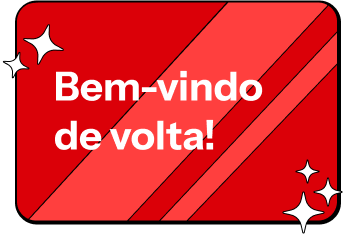
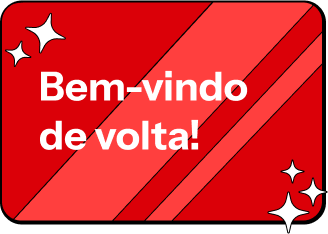
Overcompensate

diff --git a/css/login.css b/css/login.css
@@ -1,184 +1,192 @@
-
 body {
-    background-color: #f8f0e3;
-    font-family: 'Instrument Sans', sans-serif;
-    margin: 0;
-    padding: 0;
+  background-color: #f8f0e3;
+  font-family: "Instrument Sans", sans-serif;
+  margin: 0 auto;
+  padding: 0;
+  width: 85%;
+  
 }
 
+.desktop {
+  display: none;
+}
+
+.mobile {
+  display: block;
+  max-width:95%;
+}
 .cabeçalho header {
-    display: flex;
-    justify-content: space-between;
-    align-items: center;
-    padding: 10px 18px;   
-    border-bottom: 1px solid #f8f0e3;
+  display: flex;
+  justify-content: space-between;
+  align-items: center;
+  max-width: 320px;
+  margin:60px auto 0 auto;
 }
 
-.cabeçalho img{
-    width: 25px;
+.cabeçalho img {
+  width: 25px;
+}
+
+.container {
+  display: flex;
+  flex-direction: column;
+
 }
 
 .bem-vindo {
-    display: flex;
-    justify-content: center;
-    align-items: center;
-    padding: 40px 0;
+  display: flex;
+  justify-content: center;
+  align-items: center;
+  padding: 40px 0 20px 0;
 }
 
 .login {
-    display: flex;
-    flex-direction: column;
-    align-items: center;
+  display: flex;
+  flex-direction: column;
+  align-items: center;
+  width: 85%;
+  margin: 0 auto;
+  
 }
 
 .login h1 {
-    margin: 10px 0;
-    margin-left: -220px;
-    margin-top: -25px;
+  width: 100%;
+  max-width: 320px;
+  margin: 0 auto 10px auto;
+  text-align: left;
+  font-size: 1.8rem;
 }
 
 #formulario {
-    display: flex;
-    flex-direction: column;
-    gap: 10px;
-    width: 280px;
-    margin-top: 10px;
-    margin-left: -20px;
+  display: flex;
+  flex-direction: column;
+  gap: 6px;
+  width: 100%;
+  margin-top: 10px;
 }
 
 #formulario input {
-    padding: 12px;
-    font-size: 16px;
-    border: 1px solid #ccc;
-    border-radius: 8px;
+  padding: 12px;
+  font-size: 16px;
+  border: 1px solid #ccc;
+  border-radius: 8px;
 }
 
 #formulario button {
-    padding: 12px;
-    border: none;
-    border-radius: 10px;
-    font-size: 16px;
-    font-weight: bold;
-    cursor: pointer;
-    box-shadow: 2px 3px 0px black;
-    transition: transform 0.2s ease, box-shadow 0.2s ease;
-    margin-top: 10px;
+  padding: 12px;
+  border: none;
+  border-radius: 10px;
+  font-size: 16px;
+  font-weight: bold;
+  cursor: pointer;
+  box-shadow: var(--box-shadow);
+  margin-top: 10px;
 }
 
 #formulario .entrar {
-    background-color: #FFC257;
-    border: 1px solid black;
+  background-color: #ffc257;
+  border: var(--border);
+}
+
+#formulario .entrar:hover {
+  color: white;
+  background-color: black;
 }
 
 .perguntas {
+  display: flex;
+  flex-direction: column;
+  align-items: center;
+  margin-top: 15px;
+}
+
+.criar a {
+  color: black;
+  font-weight: bold;
+  margin-left: 5px;
+  text-decoration: none;
+}
+
+.esqueceu a {
+  color: black;
+  font-weight: bold;
+  margin-left: -2px;
+  text-decoration: none;
+}
+
+.esqueceu a:hover {
+  color: var(--highlight-yellow);
+}
+
+.perguntas .esqueceu {
+  margin-top: -1px;
+}
+
+.criar a:hover {
+  color: var(--highlight-yellow);
+}
+
+/* DESKTOP */
+@media (min-width: 1024px) {
+  body {
+    background-color: white;
+  }
+
+  .container {
+    display: flex;
+    flex-direction: row;
+    align-items: center;
+    justify-content: center;
+    height: 75vh;
+    background-color: var(--medium-yellow);
+    width: 62%;
+    margin: 70px auto 0 auto;
+    border-radius: var(--border-radius);
+    box-shadow: var(--box-shadow);
+    border: var(--border);
+    gap: 20px;
+    padding: 0;
+  }
+
+  .desktop {
+    display: block;
+  }
+
+  .mobile {
+    display: none;
+  }
+
+  .login {
+    width: 50%;
+    margin: 0;
     display: flex;
     flex-direction: column;
+    align-items: flex-start;
+    gap: 10px;
+  }
+
+  .login h1 {
+    margin: 0 0 10px 0;
+  }
+
+  .bem-vindo {
+    width: 50%; /* largura da imagem */
+    display: flex;
+    justify-content: center;
     align-items: center;
-    margin-top: 15px;
-}
+  }
 
-.criar a{
-    color: black;
-    font-weight: bold;
-    margin-left: 5px;
-}
+  .bem-vindo img {
+    max-width: 100%;
+    height: auto;
+    margin: 0; /* remove margin extra */
+  }
+  .perguntas {
+    align-items: flex-start; /* alinha à esquerda no desktop */
+    margin-top: 10px; /* espaço em cima */
+  }
 
-.esqueceu a{
-    color: black;
-    font-weight: bold;
-    margin-left: -2px;
-}
-
-.perguntas .esqueceu{
-    margin-top: -1px;
-
-}
-
-
-/* Desktop */
-
-@media (min-width: 768px) {
-    
-    body{
-        background-color: white;
-    }
-
-    .cabeçalho{
-        margin-left: 1380px;
-        
-    }
-
-    .cabeçalho img{
-        width: 70px;
-        margin-top: 15px;
-        margin-left: 180px;
-    }
-    
-    .container {
-        display: flex;
-        justify-content: center;
-        align-items: center;
-        gap: 50px; 
-        margin-top: 60px;
-        padding: 40px;
-        background-color: #fff3e0;
-        border-radius: 10px;
-        box-shadow: 2px 3px 6px rgba(0,0,0,0.9);
-        border: solid 2px black;
-        max-width: 800px;
-        margin-left: auto;
-        margin-right: auto;
-        margin-top: 80px;
-
-    }
-
-    .bem-vindo, .login {
-        flex: 1;
-    }
-
-    .login h1 {
-        margin-left: -290px;
-        margin-top: 50px;
-        text-align: left;
-    }
-
-    #formulario {
-        width: 70%;
-        margin-left: -100px;
-        margin-top: 10px;
-        gap: 8px;
-    }
-    
-        
-    #formulario button {
-        width: 100%;
-        margin-top: 12px;
-        cursor: pointer;
-        transition: all 0.5 ease;
-    }
-    
-    #formulario button:hover{
-      transform: translateY(-4px);
-    }
-    .perguntas {
-        align-items: flex-start;
-        margin-left: -20px;
-        
-        
-    }
-    .perguntas .esqueceu{
-        margin-top: -1px;
-        margin-left: -15px;
-    }
-
-    .perguntas .criar{
-        margin-top: -1px;
-        margin-left: -50px;
-    }
-
-    .criar a{
-        color: black;
-        font-weight: bold;
-        margin-left: 5px;
-    }
+  .perguntas p {
+    margin: 4px 0;
+  }
 }

diff --git a/pages/login.html b/pages/login.html
@@ -14,14 +14,15 @@
 
 <div class="cabeçalho">
     <header>
-        <img src="/images/general/ohtroca-desktop.png" alt="Logo OhTroca" class="logo">
+        <img src="/images/general/ohtroca-desktop.png" alt="Logo OhTroca" class="logo mobile">
         
     </header>
 </div>
 
 <div class="container">
     <div class="bem-vindo">
-       <img src="/images/general/welcome-img.png" alt="">
+       <img src="/images/general/welcome-img.png" alt="" class="mobile">
+       <img src="/images/general/welcome-img-desktop.png" alt="" class="desktop">
     </div>
 
     <div class="login">
@@ -35,11 +36,11 @@
         </form>
         <div class="perguntas">
             <p class="esqueceu"
-               > <a href="edit-profile.html"><strong>Esqueceu a senha?</strong></a>
+               > <a href="#"><strong>Esqueceu a senha?</strong></a>
             </p>
             
             <p class="criar">
-              Ainda sem conta?<a href="cadastro.html"><strong>Criar conta</strong></a>
+              Ainda sem conta?<a href="./cadastro.html"><strong>Criar conta</strong></a>
            </p>
         </div>
     </div>
